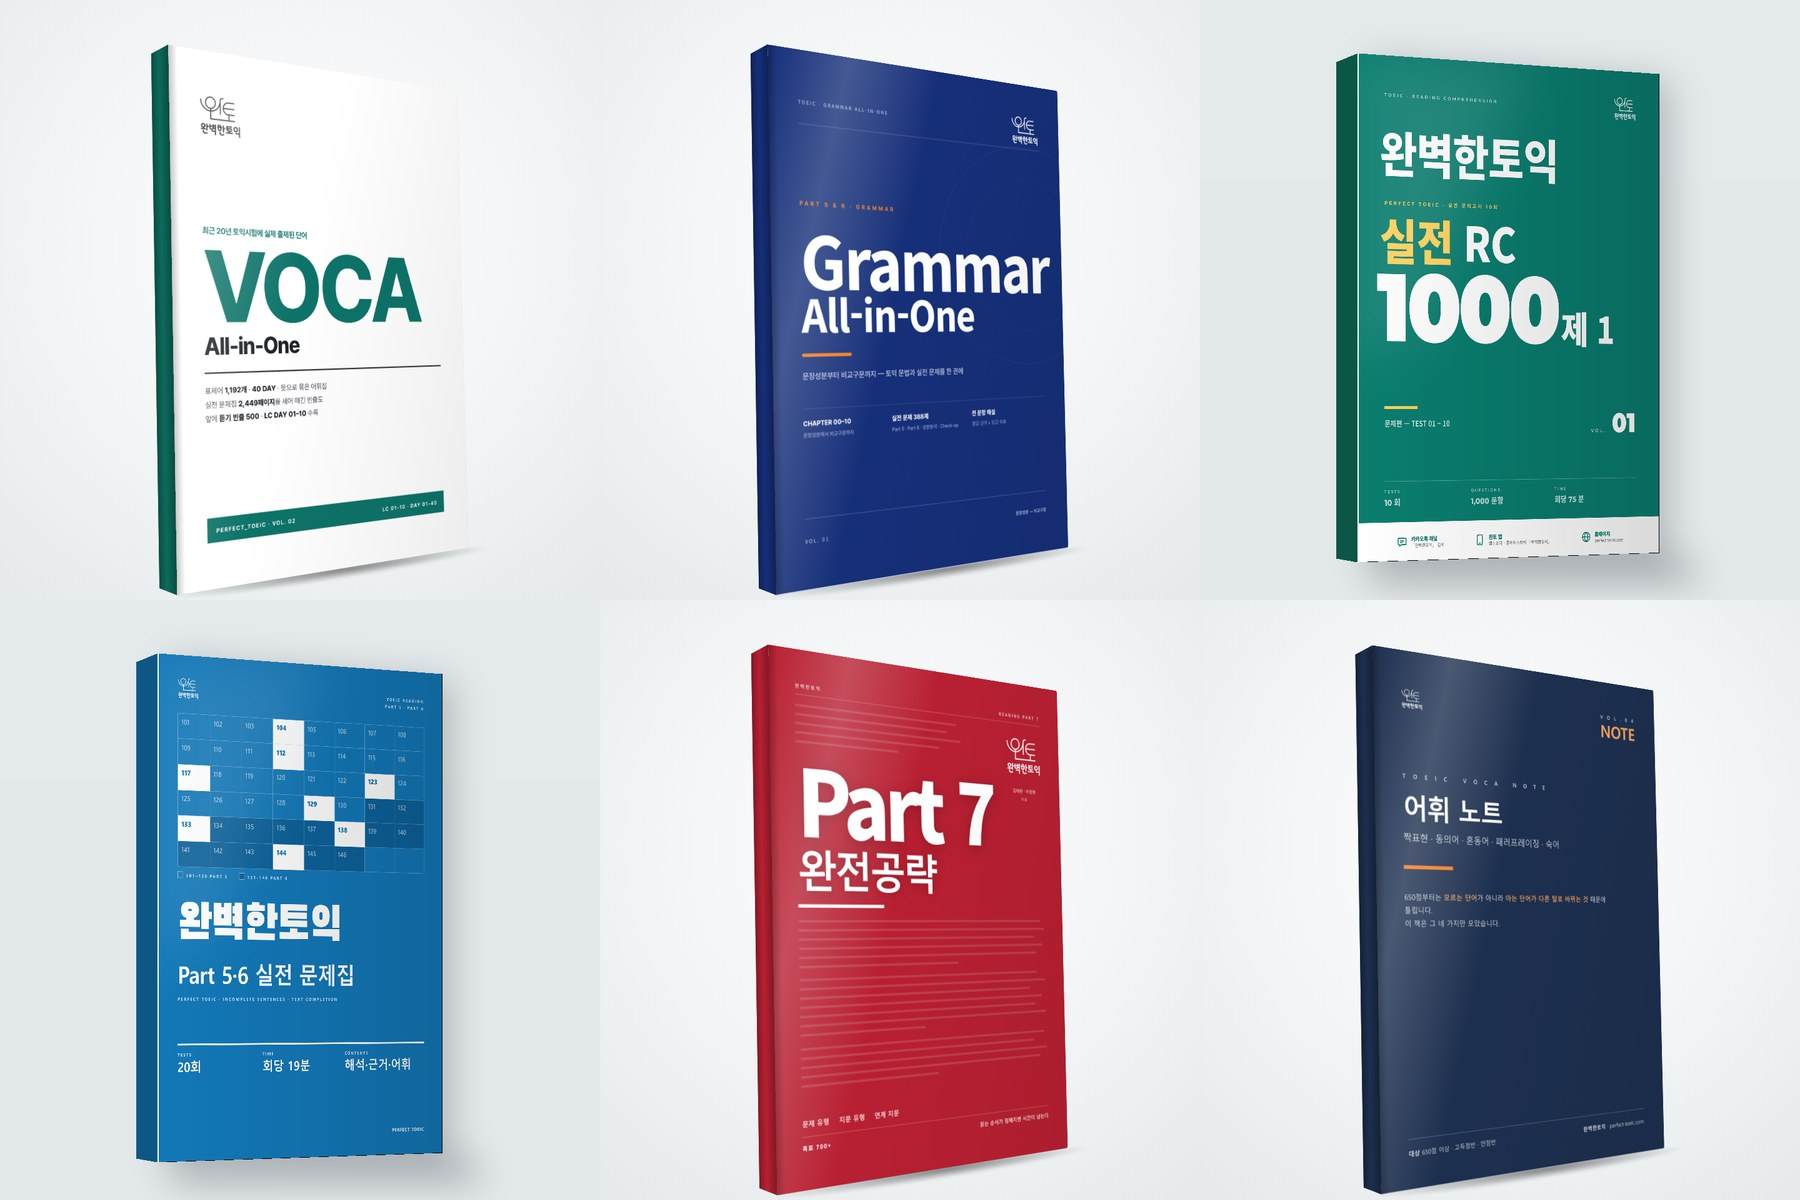
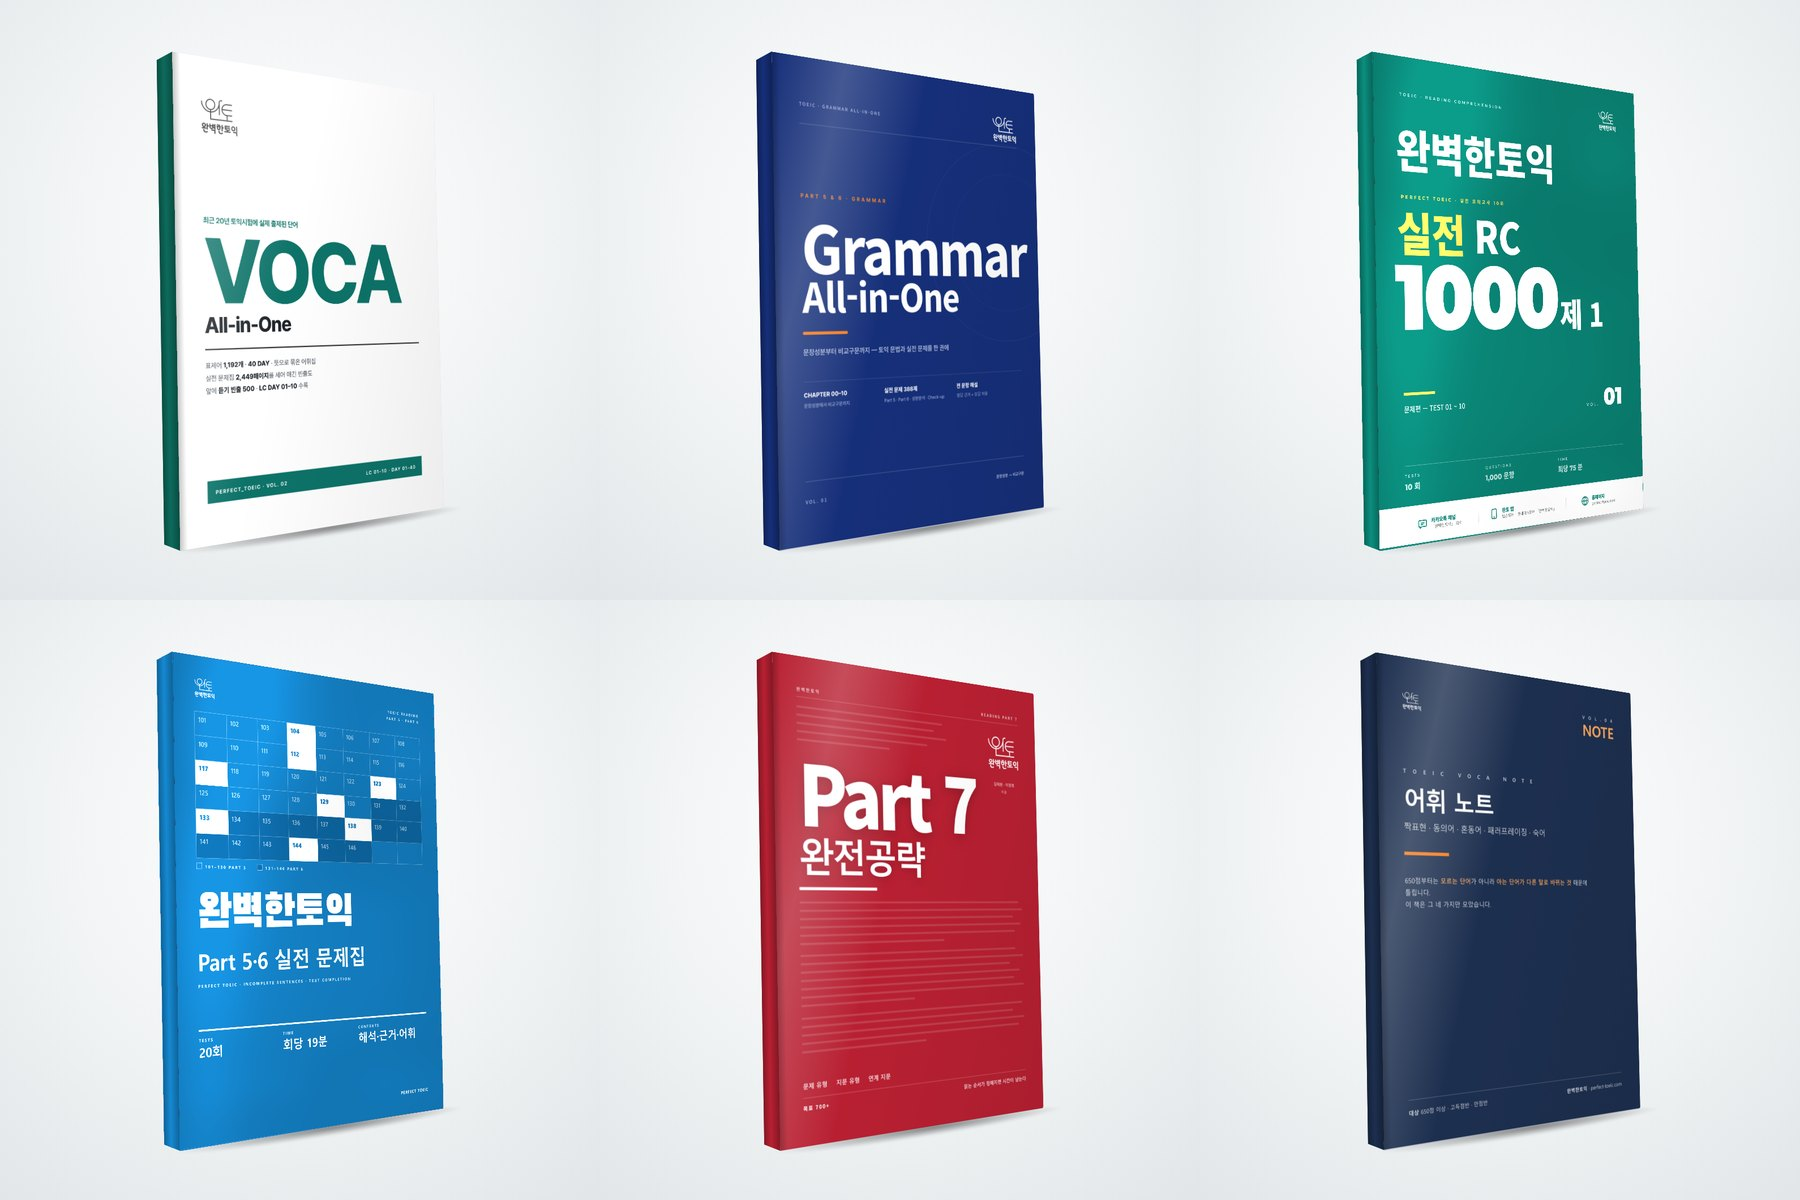
데일리: 교재 6권 목업 같은 틀로 통일, 가격 줄바꿈 수정

diff --git a/daily/rc/index.html b/daily/rc/index.html
@@ -36,7 +36,7 @@ h2{font-size:26px;line-height:1.35;font-weight:800;margin-bottom:10px}h2 em{font
 .plan.hot{border-color:var(--or);background:#fff6f1}
 .plan .tag{position:absolute;top:-11px;left:50%;transform:translateX(-50%);background:var(--ink);color:#fff;font-size:12px;font-weight:800;border-radius:20px;padding:3px 10px}
 .plan .d{font-size:20px;font-weight:800}.plan s{display:block;color:#a3aab3;font-size:14px;margin-top:6px}
-.plan .p{font-size:24px;font-weight:800;color:var(--or)}.plan .p small{font-size:14px;color:var(--or);margin-right:4px}
+.plan .p{font-size:24px;font-weight:800;color:var(--or);white-space:nowrap;letter-spacing:-.5px}.plan .p small{display:block;font-size:14px;color:var(--or);margin:2px 0 -2px}
 .note{font-size:13px;color:var(--sub);text-align:center;margin-top:12px;line-height:1.6}
 .cta{display:block;text-align:center;background:#fee500;color:#191f28;font-weight:800;font-size:18px;border-radius:18px;padding:18px;text-decoration:none;margin-top:18px}
 .cta small{display:block;font-size:13px;font-weight:600;margin-top:3px;color:#4a4a2a}
@@ -148,7 +148,7 @@ footer{background:#f2f1ee;color:#8b95a1;font-size:12px;line-height:1.8;padding:2
   <div><span class="n">04</span><b>앱·웹도 직접 만들고 운영</b><p>수강생 관리 앱(앱스토어·플레이스토어)과 홈페이지를 직접 운영해요. 데일리 학습 페이지도 그 팀이 만들었어요.</p></div>
   <div><span class="n">05</span><b>모르면 카톡으로 물어보세요</b><p>완벽한토익 카카오톡 채널을 늘 열어 두고 있어요. 풀다가 막히면 그 문제를 보내 주세요.</p></div>
  </div>
- <div class="books"><img src="img/books.jpg" alt="완벽한토익 자체 교재"></div>
+ <div class="books"><img src="img/books.jpg?v=1126" alt="완벽한토익 자체 교재"></div>
 </div></section>
 
 <section id="reviews" data-product="daily" data-theme="light" data-tabs-before=".hero + section" data-tabs-style="navy" style="padding:0"></section>
